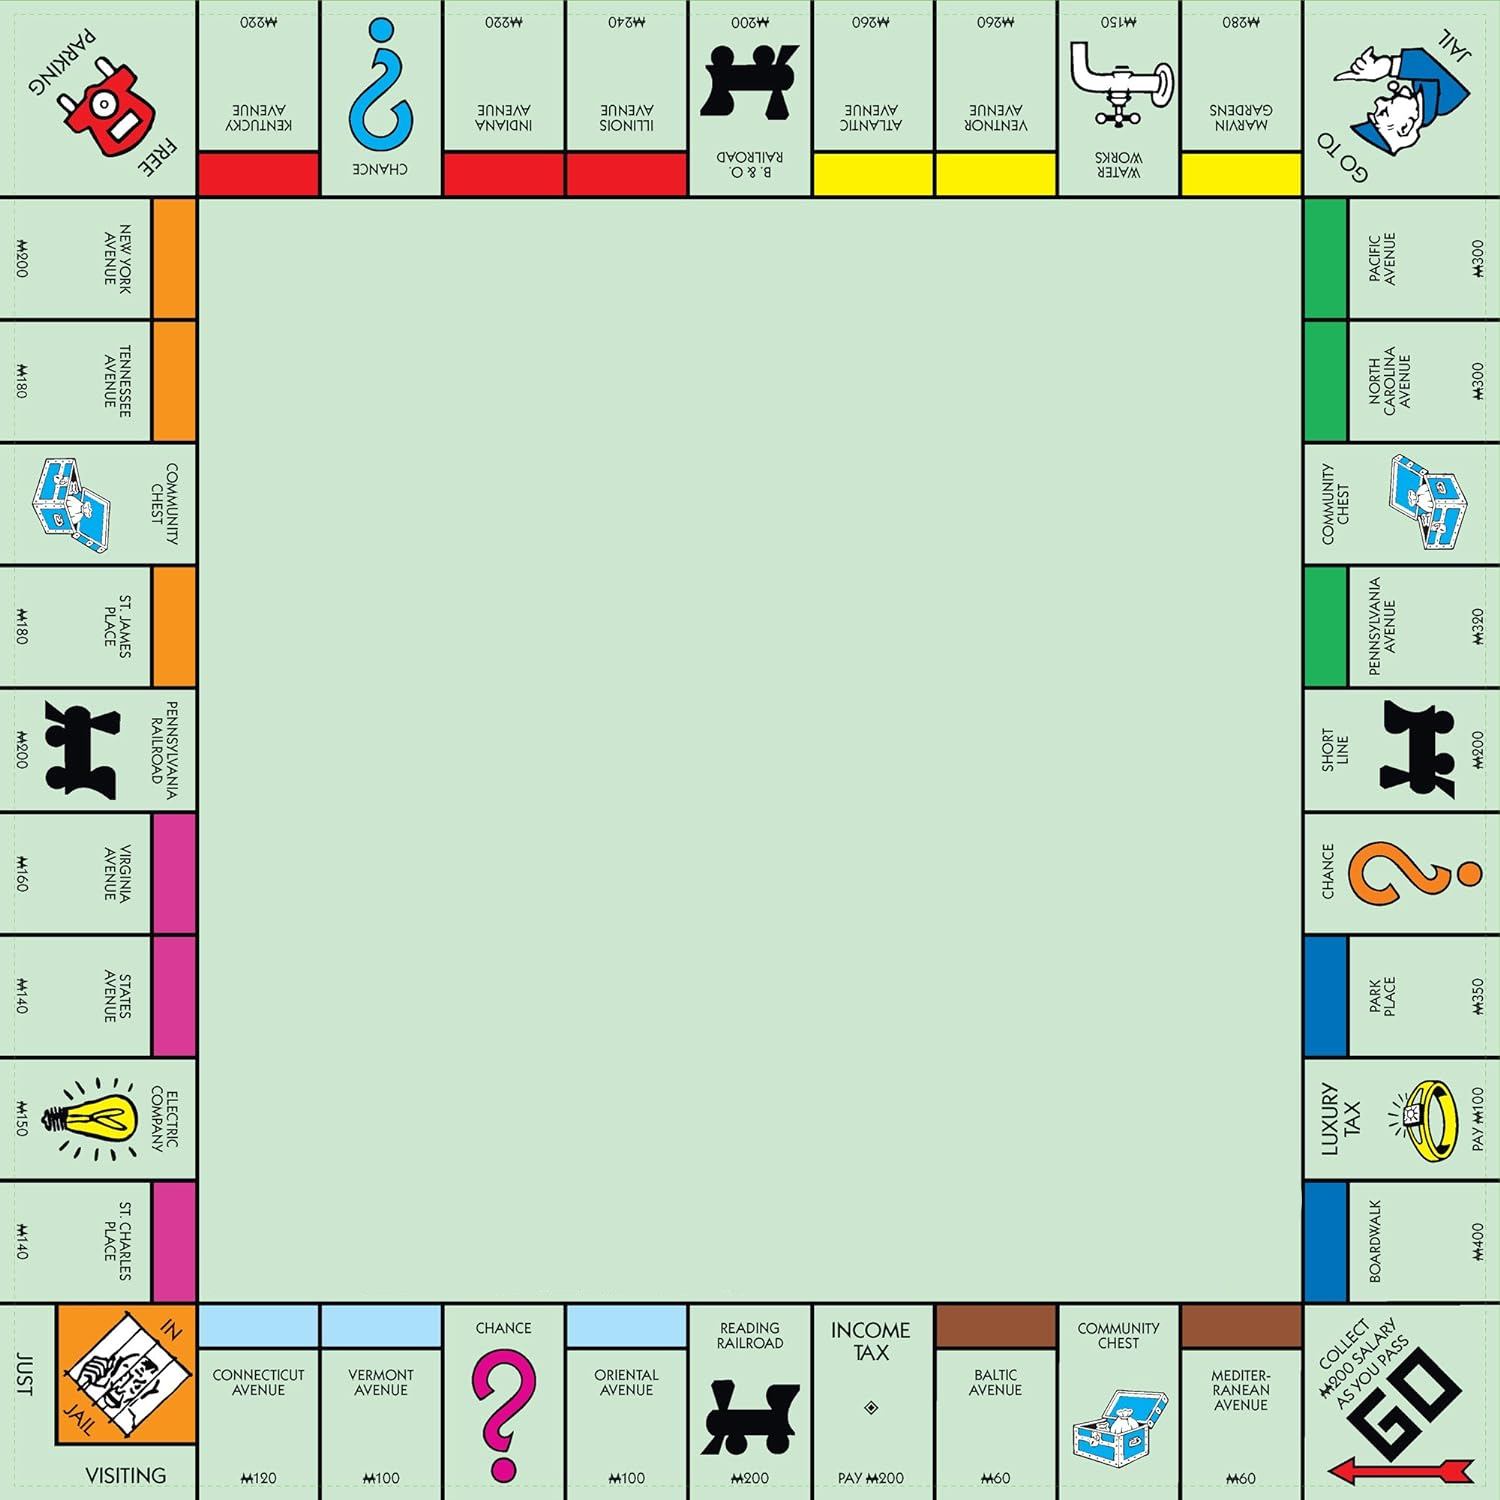
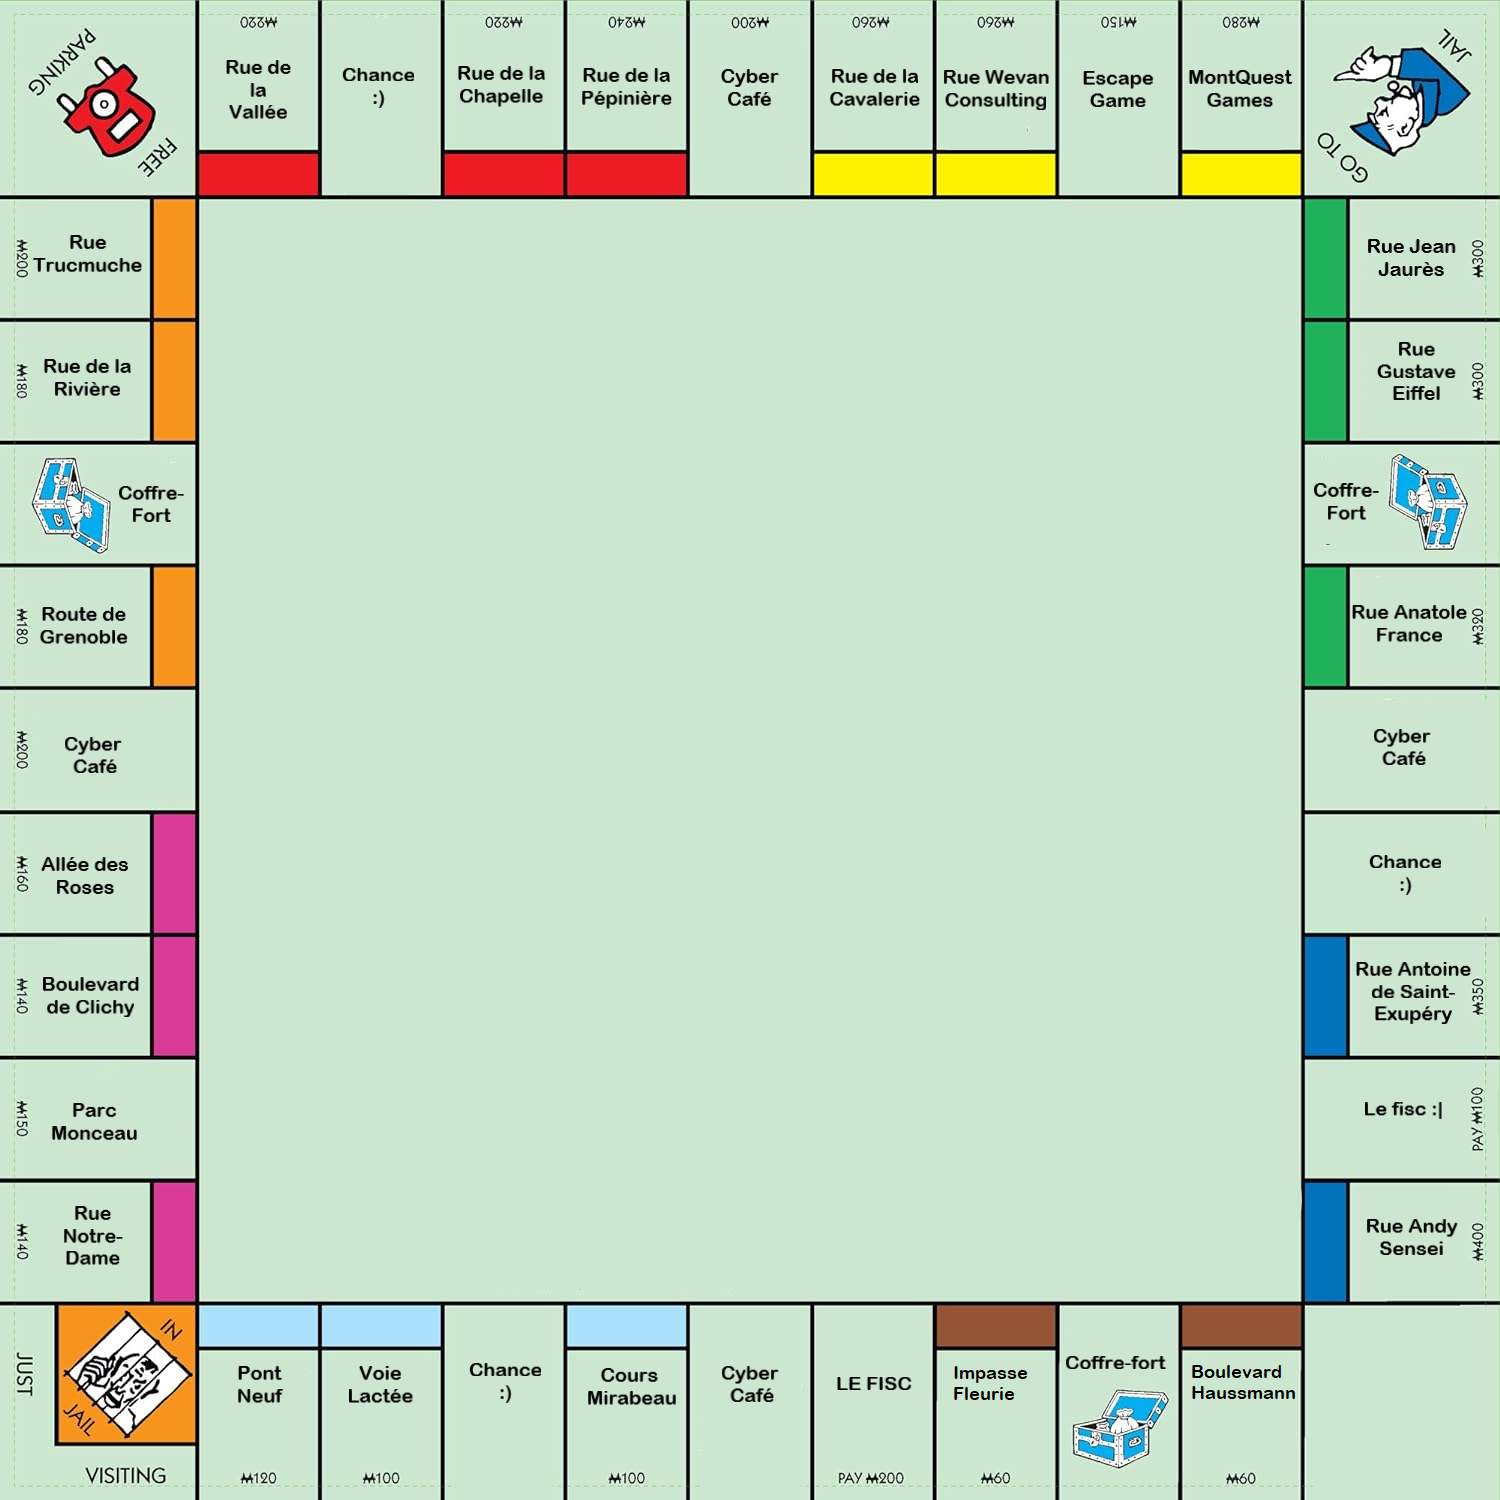
new board and names

diff --git a/src/components/board/const.tsx b/src/components/board/const.tsx
@@ -57,7 +57,7 @@ export const districtZones: DistrictZone[] = [
   },
   {
     id: 2,
-    name: "Impasse Fleurie",
+    name: "Coffre-fort",
     price: 100,
     coordinates: {
       top: "86.5%",
@@ -68,7 +68,7 @@ export const districtZones: DistrictZone[] = [
   },
   {
     id: 3,
-    name: "Chemin Blanc",
+    name: "Impasse Fleurie",
     price: 100,
     coordinates: {
       top: "86.5%",
@@ -79,7 +79,7 @@ export const districtZones: DistrictZone[] = [
   },
   {
     id: 4,
-    name: "Quai Branly",
+    name: "LE FISC",
     price: 100,
     coordinates: {
       top: "86.5%",
@@ -90,7 +90,7 @@ export const districtZones: DistrictZone[] = [
   },
   {
     id: 5,
-    name: "Place Vendôme",
+    name: "Cyber Café",
     price: 100,
     coordinates: {
       top: "86.5%",
@@ -112,7 +112,7 @@ export const districtZones: DistrictZone[] = [
   },
   {
     id: 7,
-    name: "Voie Lactée",
+    name: "CHANCE",
     price: 100,
     coordinates: {
       top: "86.5%",
@@ -123,7 +123,7 @@ export const districtZones: DistrictZone[] = [
   },
   {
     id: 8,
-    name: "Promenade Plantée",
+    name: "Voie Lactée",
     price: 100,
     coordinates: {
       top: "86.5%",
@@ -146,7 +146,7 @@ export const districtZones: DistrictZone[] = [
 
   {
     id: 11,
-    name: "Parvis Notre-Dame",
+    name: "Rue Notre-Dame",
     price: 100,
     coordinates: {
       top: "78%",
@@ -190,7 +190,7 @@ export const districtZones: DistrictZone[] = [
   },
   {
     id: 15,
-    name: "Impasse du Moulin",
+    name: "Cyber Café",
     price: 100,
     coordinates: {
       top: "45.5%",
@@ -212,7 +212,7 @@ export const districtZones: DistrictZone[] = [
   },
   {
     id: 17,
-    name: "Place de la République",
+    name: "Coffre-fort",
     price: 100,
     coordinates: {
       top: "29.4%",
@@ -234,7 +234,7 @@ export const districtZones: DistrictZone[] = [
   },
   {
     id: 19,
-    name: "Rue ",
+    name: "Rue Trucmuche",
     price: 100,
     coordinates: {
       top: "13%",
@@ -256,7 +256,7 @@ export const districtZones: DistrictZone[] = [
   },
   {
     id: 22,
-    name: "Rue de la Ferme",
+    name: "CHANCE",
     price: 100,
     coordinates: {
       top: "0%",
@@ -289,7 +289,7 @@ export const districtZones: DistrictZone[] = [
   },
   {
     id: 25,
-    name: "Rue de la Cavalerie",
+    name: "Cyber Café",
     price: 100,
     coordinates: {
       top: "0%",
@@ -300,7 +300,7 @@ export const districtZones: DistrictZone[] = [
   },
   {
     id: 26,
-    name: "Rue de la Solidarité",
+    name: "Rue de la Cavalerie",
     price: 100,
     coordinates: {
       top: "0%",
@@ -311,7 +311,7 @@ export const districtZones: DistrictZone[] = [
   },
   {
     id: 27,
-    name: "Rue de la Renaissance",
+    name: "Rue Wevan Consulting",
     price: 100,
     coordinates: {
       top: "0%",
@@ -322,7 +322,7 @@ export const districtZones: DistrictZone[] = [
   },
   {
     id: 28,
-    name: "Rue de la Résistance",
+    name: "Escape Game",
     price: 100,
     coordinates: {
       top: "0%",
@@ -333,7 +333,7 @@ export const districtZones: DistrictZone[] = [
   },
   {
     id: 29,
-    name: "Rue de la Victoire",
+    name: "MontQuest Games",
     price: 100,
     coordinates: {
       top: "0%",
@@ -366,7 +366,7 @@ export const districtZones: DistrictZone[] = [
   },
   {
     id: 33,
-    name: "Rue Émile Combes",
+    name: "Coffre-fort",
     price: 100,
     coordinates: {
       top: "29.3%",
@@ -388,7 +388,7 @@ export const districtZones: DistrictZone[] = [
   },
   {
     id: 35,
-    name: "Rue Émile Zola",
+    name: "Cyber Café",
     price: 100,
     coordinates: {
       top: "45.7%",
@@ -399,7 +399,7 @@ export const districtZones: DistrictZone[] = [
   },
   {
     id: 36,
-    name: "Rue Jules Verne",
+    name: "Chance",
     price: 100,
     coordinates: {
       top: "54%",
@@ -421,7 +421,7 @@ export const districtZones: DistrictZone[] = [
   },
   {
     id: 38,
-    name: "Rue Jean Racine",
+    name: "Le fisc :|",
     price: 100,
     coordinates: {
       top: "70%",
@@ -432,7 +432,7 @@ export const districtZones: DistrictZone[] = [
   },
   {
     id: 39,
-    name: "Rue Saint Vincent",
+    name: "Rue Andy Sensei",
     price: 100,
     coordinates: {
       top: "78%",
